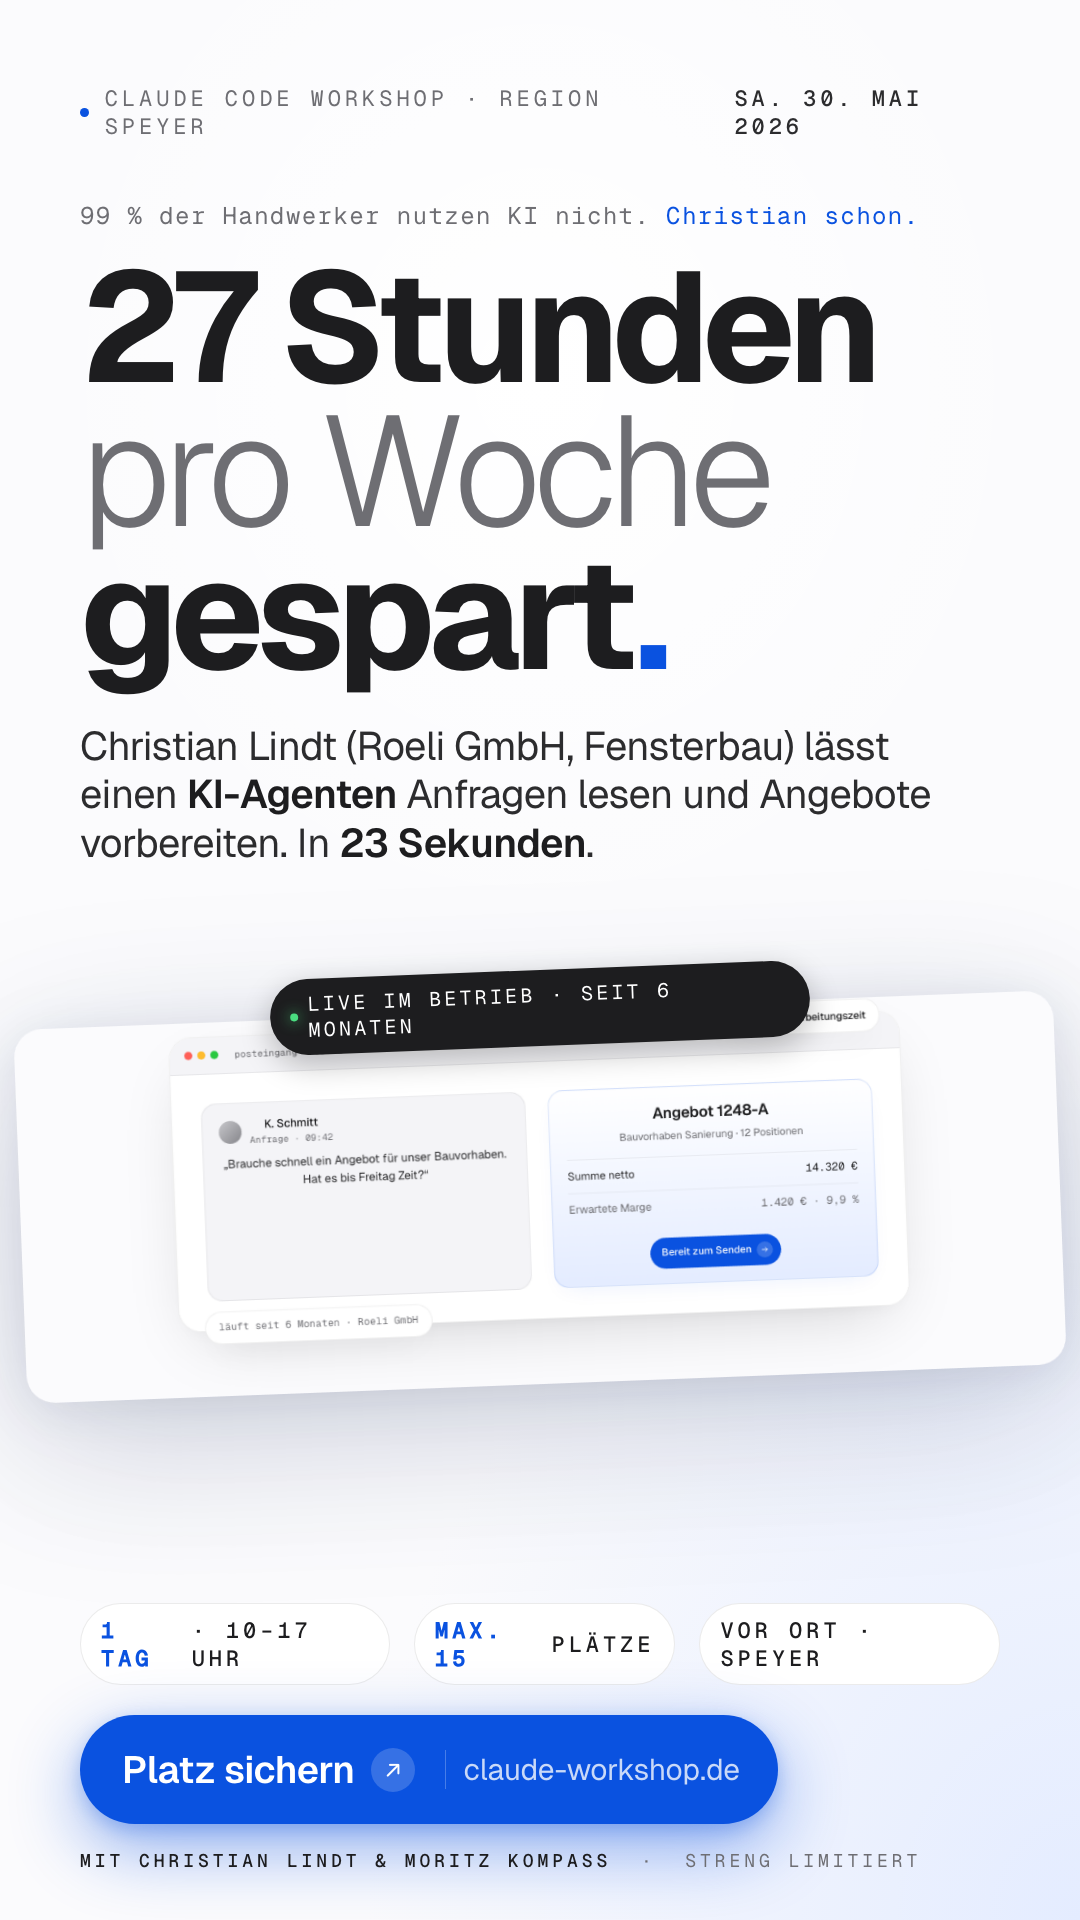
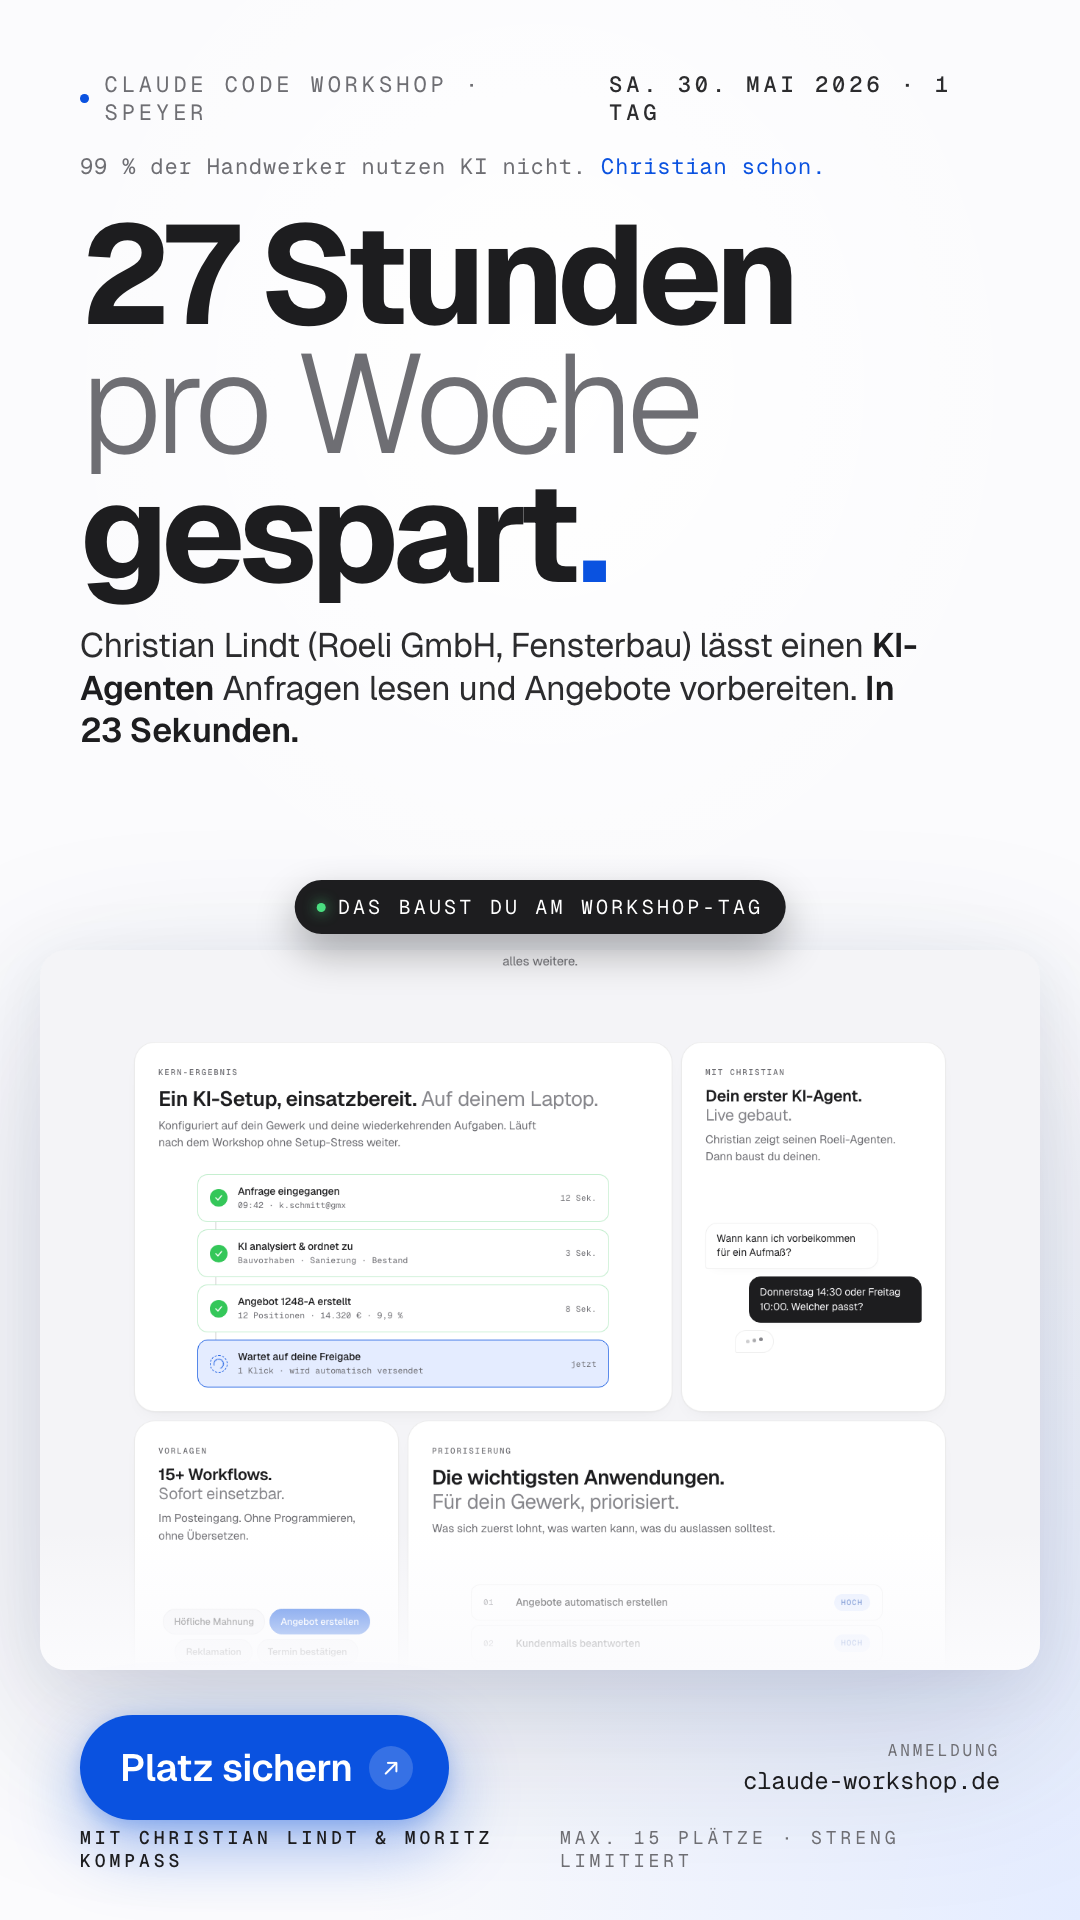
Preise klar als netto ausgezeichnet, USt-Section im Impressum entfernt
- Price-Card: "Early Bird · netto" + "regulär 799 € · zzgl. 19 % USt."
- Final CTA: "Platz sichern · 497 € netto"
- Impressum: USt-Hinweis raus (keine USt-IdNr vorhanden)

diff --git a/assets/story-ad.html b/assets/story-ad.html
@@ -29,8 +29,6 @@
     background: var(--bg);
     overflow: hidden;
   }
-
-  /* Subtle radial wash so the background isn't dead-flat */
   .wash {
     position: absolute; inset: 0;
     background:
@@ -38,10 +36,10 @@
       radial-gradient(120% 80% at 100% 100%, var(--accent-soft) 0%, rgba(228,236,255,0) 55%);
   }
 
-  /* Top eyebrow strip — mirrors site nav language */
+  /* Eyebrow strip */
   .eyebrow {
     position: absolute;
-    top: 84px;
+    top: 70px;
     left: 80px;
     right: 80px;
     display: flex;
@@ -57,25 +55,30 @@
   .eyebrow .rule { flex: 1; height: 1px; background: var(--hairline); }
   .eyebrow .date { color: var(--ink-2); font-weight: 500; }
 
+  /* Meta line */
+  .meta {
+    position: absolute;
+    top: 152px;
+    left: 80px;
+    right: 80px;
+    font-family: var(--mono);
+    font-size: 22px;
+    color: var(--muted);
+    letter-spacing: 0.04em;
+  }
+  .meta .blue { color: var(--accent); }
+
   /* Headline */
   .headline {
     position: absolute;
-    top: 200px;
+    top: 210px;
     left: 80px;
     right: 80px;
   }
-  .meta {
-    font-family: var(--mono);
-    font-size: 24px;
-    color: var(--muted);
-    letter-spacing: 0.06em;
-    margin-bottom: 24px;
-  }
-  .meta .blue { color: var(--accent); }
   .h1 {
     font-family: var(--sans);
     font-weight: 700;
-    font-size: 156px;
+    font-size: 140px;
     line-height: 0.92;
     letter-spacing: -0.045em;
     color: var(--ink);
@@ -83,90 +86,81 @@
   .h1 .light { font-weight: 300; color: var(--muted); }
   .h1 .stop { color: var(--accent); }
   .sub {
-    margin-top: 36px;
+    margin-top: 28px;
     font-family: var(--sans);
     font-weight: 400;
-    font-size: 40px;
-    line-height: 1.22;
-    letter-spacing: -0.015em;
+    font-size: 34px;
+    line-height: 1.24;
+    letter-spacing: -0.012em;
     color: var(--ink-2);
-    max-width: 880px;
+    max-width: 920px;
   }
   .sub b { font-weight: 600; color: var(--ink); }
 
-  /* Floating site-mockup card */
-  .mock-wrap {
-    position: absolute;
-    left: 50%;
-    top: 1010px;
-    transform: translateX(-50%) rotate(-2.2deg);
-    width: 1040px;
-    filter: drop-shadow(0 40px 80px rgba(10,30,80,0.18)) drop-shadow(0 8px 24px rgba(10,30,80,0.10));
-  }
-  .mock-wrap img {
-    display: block;
-    width: 100%;
-    border-radius: 28px;
-    overflow: hidden;
-  }
+  /* Bento mockup region */
   .mock-tag {
     position: absolute;
     left: 50%;
-    top: 970px;
-    transform: translateX(-50%) rotate(-2.2deg);
+    top: 880px;
+    transform: translateX(-50%);
     display: inline-flex;
     align-items: center;
-    gap: 10px;
+    gap: 12px;
     background: var(--ink);
     color: #fff;
     font-family: var(--mono);
     font-size: 20px;
     letter-spacing: 0.16em;
     text-transform: uppercase;
-    padding: 12px 20px;
+    padding: 14px 22px;
     border-radius: 999px;
-    box-shadow: 0 10px 30px rgba(0,0,0,0.25);
+    box-shadow: 0 18px 40px rgba(0,0,0,0.30);
     z-index: 3;
   }
-  .mock-tag .pulse { width: 8px; height: 8px; border-radius: 50%; background: #4ade80; box-shadow: 0 0 14px rgba(74,222,128,0.9); }
+  .mock-tag .pulse { width: 9px; height: 9px; border-radius: 50%; background: #4ade80; box-shadow: 0 0 14px rgba(74,222,128,0.9); }
 
-  /* Bottom block */
+  .mock-wrap {
+    position: absolute;
+    left: 50%;
+    top: 950px;
+    transform: translateX(-50%);
+    width: 1000px;
+    height: 720px;
+    overflow: hidden;
+    border-radius: 26px;
+    filter: drop-shadow(0 60px 90px rgba(10,30,80,0.16)) drop-shadow(0 14px 30px rgba(10,30,80,0.08));
+  }
+  .mock-wrap img {
+    display: block;
+    width: 100%;
+    height: auto;
+  }
+  /* Bottom fade so the bento dissolves into the CTA strip */
+  .mock-wrap::after {
+    content: "";
+    position: absolute;
+    inset: auto 0 0 0;
+    height: 140px;
+    background: linear-gradient(180deg, rgba(251,251,253,0) 0%, var(--bg) 100%);
+    pointer-events: none;
+  }
+
+  /* CTA strip */
   .bottom {
     position: absolute;
     left: 80px;
     right: 80px;
-    bottom: 96px;
-  }
-  .row {
+    bottom: 100px;
     display: flex;
     align-items: center;
+    justify-content: space-between;
     gap: 24px;
-    margin-bottom: 30px;
-    font-family: var(--mono);
-    font-size: 22px;
-    letter-spacing: 0.18em;
-    text-transform: uppercase;
-    color: var(--muted);
   }
-  .row .chip {
-    display: inline-flex;
-    align-items: center;
-    gap: 10px;
-    background: #ffffff;
-    color: var(--ink);
-    border: 1px solid var(--hairline);
-    border-radius: 999px;
-    padding: 12px 20px;
-    font-weight: 500;
-  }
-  .row .chip b { color: var(--accent); font-weight: 600; }
-  .row .sep { color: var(--faint); }
-
   .cta {
     display: inline-flex;
     align-items: center;
     gap: 16px;
-    padding: 30px 38px 30px 42px;
+    padding: 28px 36px 28px 40px;
     background: var(--accent);
     color: #fff;
     border-radius: 999px;
@@ -174,7 +168,7 @@
     font-weight: 600;
     font-size: 38px;
     letter-spacing: -0.012em;
-    box-shadow: 0 24px 70px rgba(10,82,224,0.45), 0 6px 18px rgba(10,82,224,0.25);
+    box-shadow: 0 24px 70px rgba(10,82,224,0.40), 0 6px 18px rgba(10,82,224,0.22);
   }
   .cta .arrow {
     display: inline-flex;
@@ -188,20 +182,23 @@
     font-size: 22px;
     font-weight: 500;
   }
-  .cta .domain {
-    margin-left: 14px;
-    padding-left: 18px;
-    border-left: 1px solid rgba(255,255,255,0.25);
-    color: rgba(255,255,255,0.78);
-    font-weight: 400;
-    font-size: 30px;
+  .url {
+    font-family: var(--mono);
+    font-size: 24px;
+    color: var(--ink);
     letter-spacing: -0.005em;
+    text-align: right;
   }
+  .url .small { display: block; font-size: 16px; color: var(--muted); letter-spacing: 0.18em; text-transform: uppercase; margin-bottom: 4px; }
 
   .foot {
     position: absolute;
     left: 80px;
+    right: 80px;
     bottom: 48px;
+    display: flex;
+    align-items: center;
+    justify-content: space-between;
     font-family: var(--mono);
     font-size: 18px;
     letter-spacing: 0.22em;
@@ -217,13 +214,14 @@
 
     <div class="eyebrow">
       <span class="dot"></span>
-      <span>Claude Code Workshop · Region Speyer</span>
+      <span>Claude Code Workshop · Speyer</span>
       <span class="rule"></span>
-      <span class="date">Sa. 30. Mai 2026</span>
+      <span class="date">Sa. 30. Mai 2026 · 1 Tag</span>
     </div>
 
+    <div class="meta">99&nbsp;% der Handwerker nutzen KI&nbsp;nicht. <span class="blue">Christian schon.</span></div>
+
     <div class="headline">
-      <div class="meta">99&nbsp;% der Handwerker nutzen KI&nbsp;nicht. <span class="blue">Christian schon.</span></div>
       <div class="h1">
         27&nbsp;Stunden<br/>
         <span class="light">pro Woche</span><br/>
@@ -231,29 +229,30 @@
       </div>
       <div class="sub">
         Christian Lindt (Roeli&nbsp;GmbH, Fensterbau) lässt einen <b>KI-Agenten</b>
-        Anfragen lesen und Angebote vorbereiten. In <b>23&nbsp;Sekunden</b>.
+        Anfragen lesen und Angebote vorbereiten. <b>In 23&nbsp;Sekunden.</b>
       </div>
     </div>
 
-    <div class="mock-tag"><span class="pulse"></span>Live im Betrieb · seit 6 Monaten</div>
+    <div class="mock-tag"><span class="pulse"></span>Das baust du am Workshop-Tag</div>
     <div class="mock-wrap">
-      <img src="./_snip-mockup.png" alt="" />
+      <img src="./_snip-bento.png" alt="" />
     </div>
 
     <div class="bottom">
-      <div class="row">
-        <span class="chip"><b>1 Tag</b> · 10–17 Uhr</span>
-        <span class="chip"><b>Max. 15</b> Plätze</span>
-        <span class="chip">Vor Ort · Speyer</span>
-      </div>
       <div class="cta">
         Platz sichern
         <span class="arrow">↗</span>
-        <span class="domain">claude-workshop.de</span>
+      </div>
+      <div class="url">
+        <span class="small">Anmeldung</span>
+        claude-workshop.de
       </div>
     </div>
 
-    <div class="foot"><span class="strong">Mit Christian Lindt &amp; Moritz Kompaß</span> &nbsp;·&nbsp; Streng limitiert</div>
+    <div class="foot">
+      <span class="strong">Mit Christian Lindt &amp; Moritz Kompaß</span>
+      <span>Max. 15 Plätze · Streng limitiert</span>
+    </div>
   </div>
 </body>
 </html>

diff --git a/index.html b/index.html
@@ -598,9 +598,9 @@
                   <h3 class="price__name">KI Workshop <em>Vor-Ort-Tag</em></h3>
                 </div>
                 <div class="price__amount">
-                  <span class="price__earlybird">Early Bird Preis</span>
+                  <span class="price__earlybird">Early Bird · netto</span>
                   <p class="price__num">497&thinsp;<small>€</small></p>
-                  <span class="price__reg">regulär 799&thinsp;€ netto</span>
+                  <span class="price__reg">regulär 799&thinsp;€ · zzgl. 19&thinsp;% USt.</span>
                 </div>
               </div>
 
@@ -681,7 +681,7 @@
               </h2>
               <p class="cta__note cta__note--lead">15 Teilnehmer · 7 Stunden · ein laufendes KI-System auf deinem Laptop.</p>
               <a href="/buchung" class="btn btn--pill btn--lg btn--solid">
-                <span>Platz sichern · 497 €</span>
+                <span>Platz sichern · 497 € netto</span>
                 <span class="btn__icon" aria-hidden="true">
                   <svg viewBox="0 0 16 16" fill="none"><path d="M5 11l6-6M6 5h5v5" stroke="currentColor" stroke-width="1.4" stroke-linecap="round" stroke-linejoin="round"/></svg>
                 </span>

diff --git a/impressum/index.html b/impressum/index.html
@@ -113,12 +113,6 @@
         <dd><a href="mailto:christian@lindt-partner.de">christian@lindt-partner.de</a></dd>
       </dl>
 
-      <h2>Umsatzsteuer</h2>
-      <p>
-        Die Umsatzsteuer-Identifikationsnummer gemäß § 27a Umsatzsteuergesetz wird auf der
-        Rechnung ausgewiesen.
-      </p>
-
       <h2>Veranstalter Workshop</h2>
       <p>
         Der KI Workshop wird durchgeführt in Kooperation zwischen
